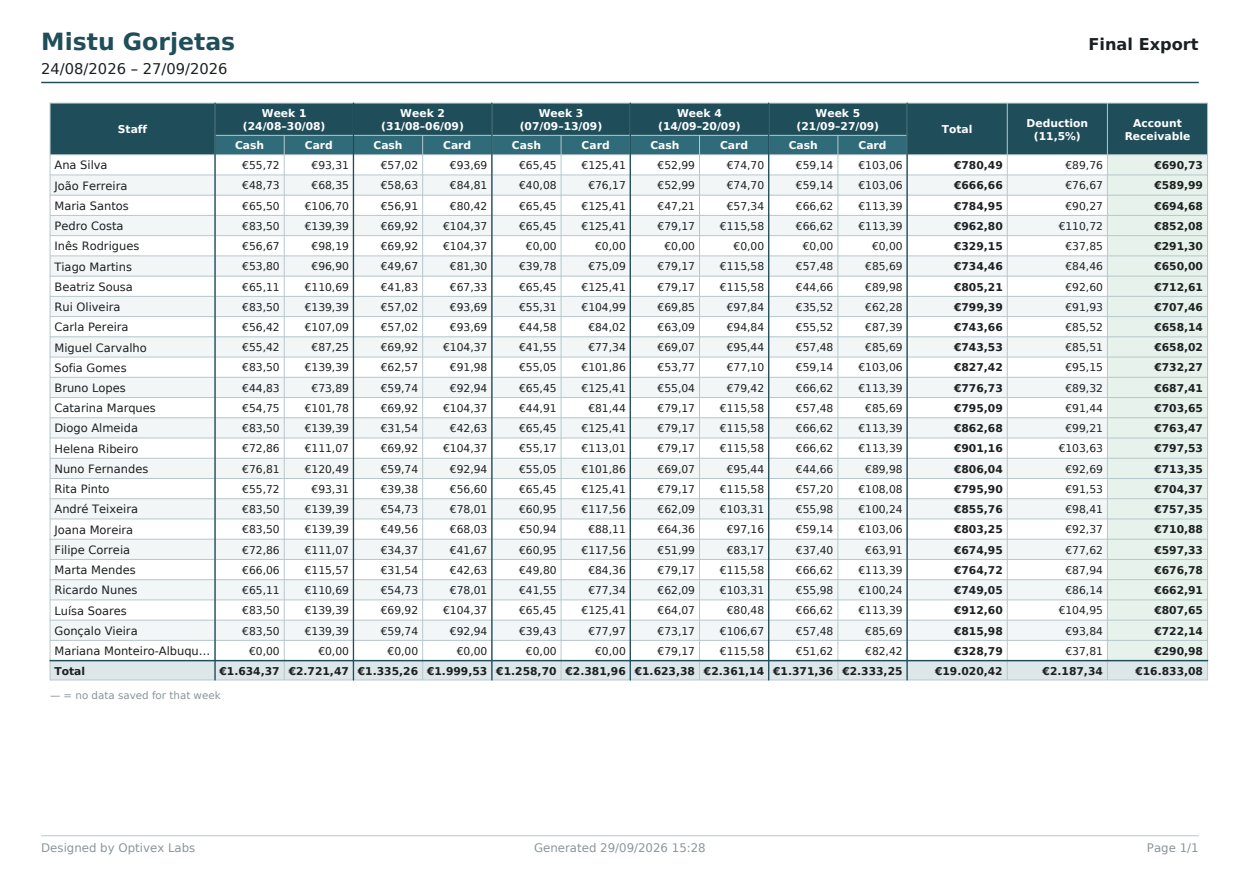
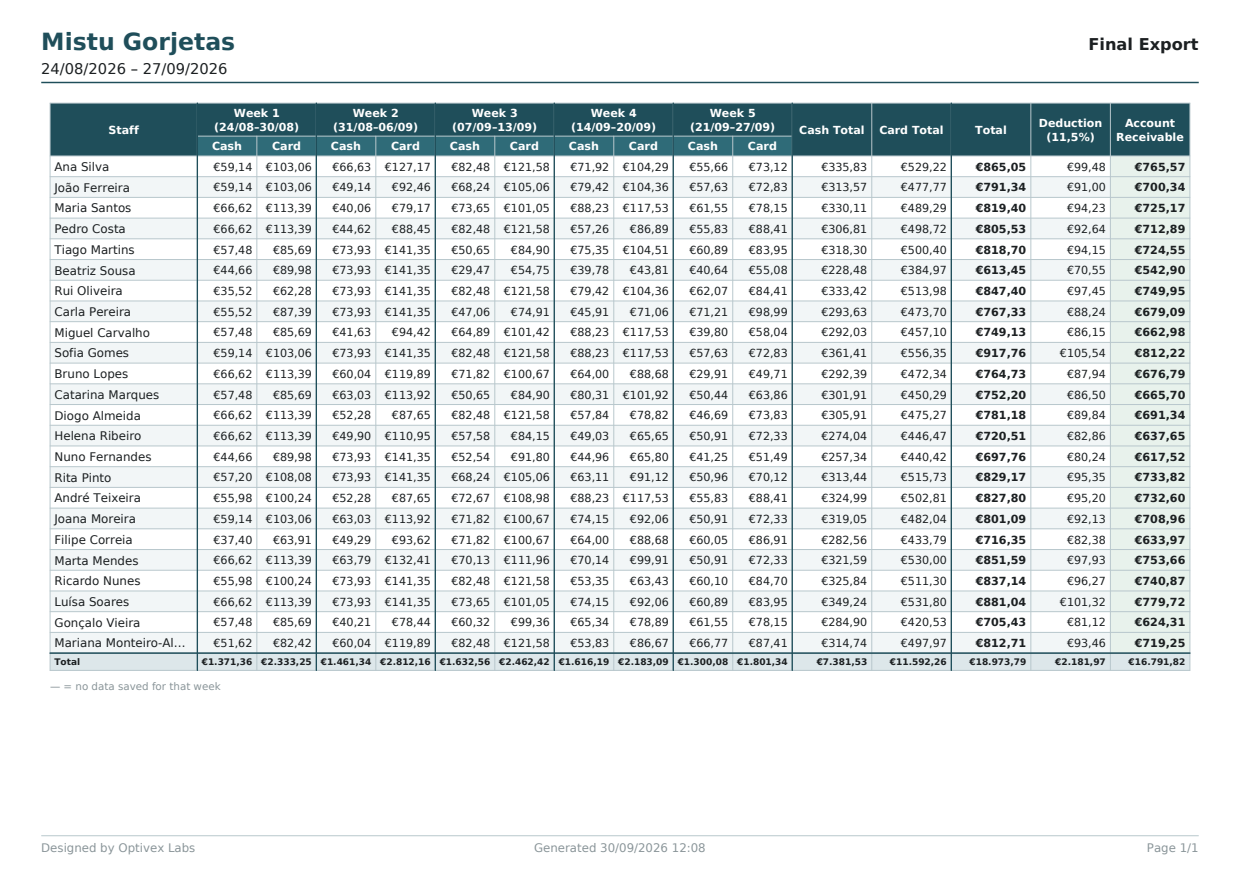
Final export: add Cash Total and Card Total columns
Per-person and grand totals for cash and card before Total. Pages hold
at most 5 weeks, spread evenly, and tables now fit the page margins.

Changed region(s): [[0.0306, 0.0924, 0.9806, 0.8005]]

diff --git a/mistu_gorjetas/pdf_export.py b/mistu_gorjetas/pdf_export.py
@@ -23,7 +23,8 @@ PAGE = landscape(A4)
 MARGIN_X = 28
 MARGIN_TOP = 64
 MARGIN_BOTTOM = 40
-CONTENT_W = PAGE[0] - 2 * MARGIN_X
+FRAME_PADDING = 6  # ReportLab's default frame padding on each side
+CONTENT_W = PAGE[0] - 2 * MARGIN_X - 2 * FRAME_PADDING
 
 HEADER_BG = colors.HexColor("#1F4E5A")
 HEADER_SUB_BG = colors.HexColor("#2F6B78")
@@ -34,7 +35,7 @@ ABSENT_COLOR = colors.HexColor("#B03A2E")
 MUTED = colors.HexColor("#8A9599")
 TEXT = colors.HexColor("#1B1F21")
 
-MAX_WEEKS_PER_PAGE = 6
+MAX_WEEKS_PER_PAGE = 5
 
 _fonts: tuple[str, str] | None = None
 ABSENT_MARK = "✗"
@@ -280,10 +281,14 @@ def render_final(report: FinalReport, path: Path) -> None:
     pct = format_percent(report.deduction_pct)
     n_weeks = len(report.weeks)
 
-    chunks = [
-        list(range(i, min(i + MAX_WEEKS_PER_PAGE, n_weeks)))
-        for i in range(0, n_weeks, MAX_WEEKS_PER_PAGE)
-    ] or [[]]
+    # Spread the weeks evenly over as few pages as possible (at most
+    # MAX_WEEKS_PER_PAGE each); the summary columns go on the last page.
+    n_pages = max(1, -(-n_weeks // MAX_WEEKS_PER_PAGE))
+    chunks, start = [], 0
+    for page in range(n_pages):
+        size = n_weeks // n_pages + (1 if page < n_weeks % n_pages else 0)
+        chunks.append(list(range(start, start + size)))
+        start += size
 
     story: list = []
     for ci, weeks in enumerate(chunks):
@@ -304,9 +309,9 @@ def render_final(report: FinalReport, path: Path) -> None:
 
 def _final_table(report: FinalReport, weeks: list[int], with_summary: bool, pct: str) -> Table:
     regular, bold = _register_fonts()
-    staff_w = 112
-    summary_w = 68 if with_summary else 0
-    n_summary = 3 if with_summary else 0
+    staff_w = 100 if with_summary else 112
+    summary_w = 54 if with_summary else 0
+    n_summary = 5 if with_summary else 0
     col_w = (CONTENT_W - staff_w - n_summary * summary_w) / max(1, 2 * len(weeks))
     col_w = min(col_w, 70)
 
@@ -317,8 +322,9 @@ def _final_table(report: FinalReport, weeks: list[int], with_summary: bool, pct:
         head0 += [f"{tr('week')} {wi + 1}\n({fmt_day_month(ws)}–{fmt_day_month(we)})", ""]
         head1 += [tr("cash"), tr("card")]
     if with_summary:
-        head0 += [tr("total"), tr("pdf.deduction_col", pct=pct), tr("receivable")]
-        head1 += ["", "", ""]
+        head0 += [tr("pdf.cash_total"), tr("pdf.card_total"), tr("total"),
+                  tr("pdf.deduction_col", pct=pct), tr("receivable")]
+        head1 += [""] * 5
 
     body = []
     for row in report.rows:
@@ -330,7 +336,8 @@ def _final_table(report: FinalReport, weeks: list[int], with_summary: bool, pct:
             else:
                 line += [NO_DATA_MARK, NO_DATA_MARK]
         if with_summary:
-            line += [format_euro(row.total), format_euro(row.deduction), format_euro(row.receivable)]
+            line += [format_euro(row.total_cash), format_euro(row.total_card), format_euro(row.total),
+                     format_euro(row.deduction), format_euro(row.receivable)]
         body.append(line)
 
     totals = [tr("pdf.totals")]
@@ -341,14 +348,23 @@ def _final_table(report: FinalReport, weeks: list[int], with_summary: bool, pct:
         else:
             totals += [NO_DATA_MARK, NO_DATA_MARK]
     if with_summary:
-        totals += [format_euro(report.total), format_euro(report.deduction), format_euro(report.receivable)]
+        totals += [format_euro(report.total_cash), format_euro(report.total_card), format_euro(report.total),
+                   format_euro(report.deduction), format_euro(report.receivable)]
 
-    week_values = [v for line in body + [totals] for v in line[1:1 + 2 * len(weeks)]] + head1[1:]
-    summary_values = [v for line in body + [totals] for v in line[1 + 2 * len(weeks):]]
-    size = min(
-        _fit_font(week_values, bold, col_w, 8),
-        _fit_font(summary_values, bold, summary_w, 8) if with_summary else 8,
-    )
+    # Body rows and the (larger) totals row are sized separately, so one big
+    # grand total doesn't shrink the whole table.
+    n_week_cols = 2 * len(weeks)
+
+    def fit(lines: list[list[str]], font: str) -> float:
+        week_vals = [v for line in lines for v in line[1:1 + n_week_cols]]
+        sum_vals = [v for line in lines for v in line[1 + n_week_cols:]]
+        return min(
+            _fit_font(week_vals, font, col_w, 8),
+            _fit_font(sum_vals, font, summary_w, 8) if with_summary else 8,
+        )
+
+    size = min(fit(body, bold), _fit_font(head1[1:], bold, col_w, 8))
+    total_size = min(size, fit([totals], bold))
     hs = _header_style(bold, min(size, 7.5))
     head0 = [head0[0]] + [Paragraph(h.replace("\n", "<br/>"), hs) if h else "" for h in head0[1:]]
     for line in body:
@@ -362,6 +378,7 @@ def _final_table(report: FinalReport, weeks: list[int], with_summary: bool, pct:
         ("SPAN", (0, 0), (0, 1)),
         ("BACKGROUND", (0, 0), (0, 1), HEADER_BG),
         ("FONT", (0, 2), (0, -2), regular, size + 0.5),
+        ("FONT", (0, -1), (-1, -1), bold, total_size),
         ("LINEAFTER", (0, 0), (0, -1), 0.9, HEADER_BG),
     ]
     for i in range(len(weeks)):
@@ -375,13 +392,15 @@ def _final_table(report: FinalReport, weeks: list[int], with_summary: bool, pct:
             ]
     if with_summary:
         first = 1 + 2 * len(weeks)
-        for c in range(first, first + 3):
+        total_col, recv_col = first + 2, first + 4
+        for c in range(first, first + 5):
             style.append(("SPAN", (c, 0), (c, 1)))
-        style.append(("BACKGROUND", (first, 0), (first + 2, 1), HEADER_BG))
         style += [
-            ("FONT", (first, 2), (first, -1), bold, size),
-            ("FONT", (first + 2, 2), (first + 2, -1), bold, size),
-            ("BACKGROUND", (first + 2, 2), (first + 2, -2), colors.HexColor("#E8F2EC")),
+            ("BACKGROUND", (first, 0), (first + 4, 1), HEADER_BG),
+            ("LINEBEFORE", (total_col, 0), (total_col, -1), 0.9, HEADER_BG),
+            ("FONT", (total_col, 2), (total_col, -2), bold, size),
+            ("FONT", (recv_col, 2), (recv_col, -2), bold, size),
+            ("BACKGROUND", (recv_col, 2), (recv_col, -2), colors.HexColor("#E8F2EC")),
         ]
     t.setStyle(TableStyle(style))
     return t

diff --git a/mistu_gorjetas/reports.py b/mistu_gorjetas/reports.py
@@ -119,6 +119,8 @@ def build_weekly(db: Database, any_day: date) -> WeeklyReport:
 class FinalRow:
     staff: Staff
     weeks: list[tuple[int, int]]  # (cash, card) per week
+    total_cash: int
+    total_card: int
     total: int
     deduction: int
     receivable: int
@@ -133,6 +135,8 @@ class FinalReport:
     deduction_pct: Decimal
     rows: list[FinalRow]
     week_totals: list[tuple[int, int]]
+    total_cash: int
+    total_card: int
     total: int
     deduction: int
     receivable: int
@@ -164,9 +168,11 @@ def build_final(db: Database, start: date, end: date, deduction_pct: Decimal) ->
                     cash += sh.cash_share
                     card += sh.card_share
             per_week.append((cash, card))
-        total = sum(c + k for c, k in per_week)
+        total_cash = sum(c for c, _ in per_week)
+        total_card = sum(k for _, k in per_week)
+        total = total_cash + total_card
         ded = deduction_cents(total, deduction_pct)
-        rows.append(FinalRow(s, per_week, total, ded, total - ded))
+        rows.append(FinalRow(s, per_week, total_cash, total_card, total, ded, total - ded))
 
     week_totals = [
         (sum(r.weeks[i][0] for r in rows), sum(r.weeks[i][1] for r in rows))
@@ -180,6 +186,8 @@ def build_final(db: Database, start: date, end: date, deduction_pct: Decimal) ->
         deduction_pct=deduction_pct,
         rows=rows,
         week_totals=week_totals,
+        total_cash=sum(r.total_cash for r in rows),
+        total_card=sum(r.total_card for r in rows),
         total=sum(r.total for r in rows),
         deduction=sum(r.deduction for r in rows),
         receivable=sum(r.receivable for r in rows),

diff --git a/tests/test_core.py b/tests/test_core.py
@@ -143,10 +143,13 @@ class ReportTests(DbTestCase):
         self.assertEqual(len(r.weeks), 2)
         ana = r.rows[0]
         self.assertEqual(ana.weeks, [(500, 500), (300, 0)])
+        self.assertEqual((ana.total_cash, ana.total_card), (800, 500))
         self.assertEqual(ana.total, 1300)
         self.assertEqual(ana.deduction, 150)  # 149.5 -> 150
         self.assertEqual(ana.receivable, 1150)
         self.assertEqual(r.total, 2300)
+        self.assertEqual((r.total_cash, r.total_card), (1300, 1000))
+        self.assertEqual(r.total_cash + r.total_card, r.total)
         with self.assertRaises(ValueError):
             build_final(self.db, MON + timedelta(days=1), MON + timedelta(days=13), Decimal(0))
 

diff --git a/mistu_gorjetas/i18n.py b/mistu_gorjetas/i18n.py
@@ -297,6 +297,8 @@ STRINGS: dict[str, dict[str, str]] = {
     "pdf.page": {"en": "Page {x}/{y}", "pt": "Página {x}/{y}"},
     "pdf.totals": {"en": "Total", "pt": "Total"},
     "pdf.week_total": {"en": "Week Total", "pt": "Total Semana"},
+    "pdf.cash_total": {"en": "Cash Total", "pt": "Total Dinheiro"},
+    "pdf.card_total": {"en": "Card Total", "pt": "Total Cartão"},
     "pdf.deduction_col": {"en": "Deduction ({pct}%)", "pt": "Dedução ({pct}%)"},
     "pdf.legend_weekly": {
         "en": "✗ = absent that day   — = no data saved for that day",

diff --git a/README.md b/README.md
@@ -35,7 +35,8 @@
 - **Weekly export (PDF):** pick a Monday; the Sunday is filled in automatically.
   Shows each person's cash/card per day, ✗ for absent, — for days with no data, and totals.
 - **Final export (PDF):** any range of whole weeks (Monday to Sunday). Shows per-week cash/card,
-  Total, Deduction (x %) and Account Receivable for each person. Long ranges split across pages.
+  Cash Total, Card Total, Total, Deduction (x %) and Account Receivable for each person.
+  Long ranges split evenly across pages (max 5 weeks per page).
 
 **Settings**
 - English / Português, switched instantly. This also sets the language of the PDFs.
